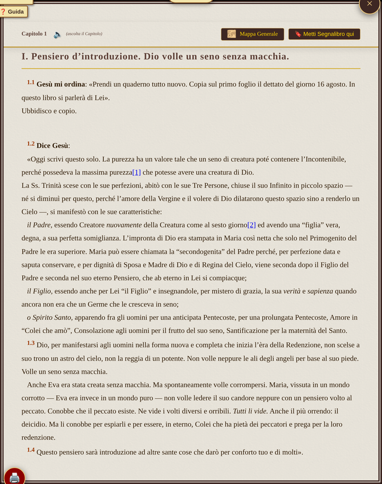
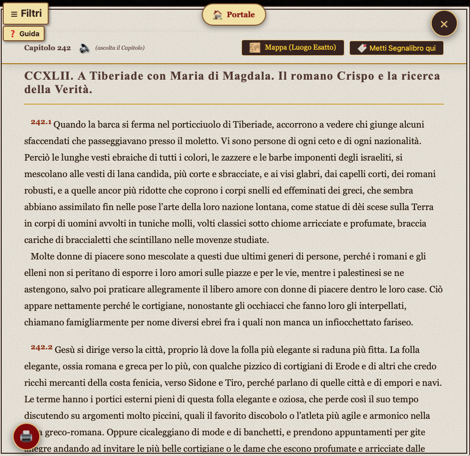
upgrade_guida

diff --git a/guida.html b/guida.html
@@ -61,7 +61,7 @@
             letter-spacing: 0.04em;
             line-height: 1.25;
             margin-bottom: 10px;
-            color: #1a1a2e;
+            color: #aa7c11;
         }
         .copertina .sottotitolo {
             font-size: 1.05em;
@@ -563,7 +563,7 @@
             <li><strong>Filtri tematici.</strong> Il pulsante ☰ FILTRI apre il pannello di navigazione per tema: la Passione, i Miracoli, le Parabole, i Discorsi di Gesù, la Preghiera — oppure per personaggi (San Pietro, San Giovanni, Maria Maddalena, Lazzaro, Giuda Iscariota, Maria Santissima). RESET FILTRI ripristina l'elenco completo.</li>
             <li><strong>Ispirazione.</strong> Propone un brano dell'Evangelo come spunto di lettura o meditazione, apribile direttamente con un clic.</li>
             <li><strong>Cerca capitolo o parola.</strong> Il campo di testo in cima all'indice filtra i capitoli per titolo o parola.</li>
-            <li><strong>Cerca Concordanze.</strong> Strumento di ricerca interna all'Evangelo: inserisci due parole (Parola 1 e Parola 2) e la distanza massima in parole tra esse. Restituisce tutti i passi in cui le due parole compaiono vicine. Per ricerche approfondite utilizza la Ricerca Globale Universale (vedi punto 7).</li>
+            <li><strong>Cerca Concordanze.</strong> Strumento di ricerca interna all'Evangelo: inserisci due parole (Parola 1 e Parola 2) e la distanza massima in parole tra esse. Restituisce tutti i passi in cui le due parole compaiono vicine. <strong style="color: inherit;">Per ricerche approfondite utilizza la Ricerca Globale Universale</strong> (vedi punto 7).</li>
             <li><strong>Indici per Parti e per Volumi.</strong> I due menù a tendina permettono di navigare l'Evangelo per "7 parti" oppure per "10 volumi".</li>
         </ul>
 
@@ -577,7 +577,8 @@
         </figure>
 
         <ul>
-            <li><strong>🔖 Metti Segnalibro qui / Riprendi.</strong> Segna il punto esatto di lettura e vi ritorna con un tocco. Condivisibile. <em>Disponibile solo nell'Evangelo</em> (indicato in rosso nell'interfaccia).</li>
+            <li><strong>🔖 Metti Segnalibro qui / Riprendi.</strong> Segna il punto esatto di lettura e vi ritorna con un tocco.
+            <em>Disponibile solo nell'Evangelo</em> <strong><u>(sottolineato in rosso)</u></strong> .</li>
             <li><strong>🔊 Ascolta il Capitolo.</strong> Avvia la lettura ad alta voce tramite la sintesi vocale del dispositivo.</li>
             <li><strong> Mappa Generale / Mappa (Luogo Esatto).</strong> Apre la Mappa Storica direttamente dalla pagina del capitolo.</li>
             <li><strong>🖨 Stampa PDF.</strong> Stampa il capitolo corrente in un PDF ben formattato, ottimizzato per tutti i browser incluso Safari su iOS.</li>
@@ -597,7 +598,7 @@
             Attenzione: segnalibro (🔖) e preferiti (⭐), con le relative funzioni di esportazione/importazione, sono disponibili <strong>esclusivamente</strong> nel lettore dell'Evangelo. In tutti gli altri libri, come in tutta la Bibliotheca, restano comunque disponibili gli strumenti di annotazione descritti di seguito.
         </div>
 
-        <p><strong>Evidenziazioni e note personali.</strong> In tutti i libri è possibile selezionare un brano di testo: compare un menu rapido con i comandi <strong>"Evidenzia"</strong> (sottolineatura blu, come una matita sul testo) e <strong>"Aggiungi nota"</strong> (per scrivere un commento personale). Le annotazioni sono sempre sincronizzate e recuperabili dalla sezione "I miei Appunti" (vedi punto 8).</p>
+        <p><strong>Evidenziazioni e note personali.</strong> In tutti i libri è possibile selezionare un brano di testo: compare un menu rapido con i comandi <strong>"Evidenzia"</strong> (<span style="font-weight: bold; text-decoration: underline; color: #0056b3;">sottolineatura blu</span>, come una matita sul testo) e <strong>"Aggiungi nota"</strong> (per scrivere un commento personale). Le annotazioni sono sempre sincronizzate e recuperabili dalla sezione "I miei Appunti" (vedi punto 8).</p>
 
         <p><strong>Note a piè di pagina.</strong> Presenti anche nei volumi di studio con navigazione bidirezionale (vedi punto 11).</p>
     </div>

diff --git a/sw.js b/sw.js
@@ -1,4 +1,4 @@
-const CACHE_NAME = 'valtorta-cache-v96'; // Bump versione 
+const CACHE_NAME = 'valtorta-cache-v97'; // Bump versione 
 
 // 1. FILE FONDAMENTALI (Scaricati subito durante l'installazione)
 const urlsToCache = [
